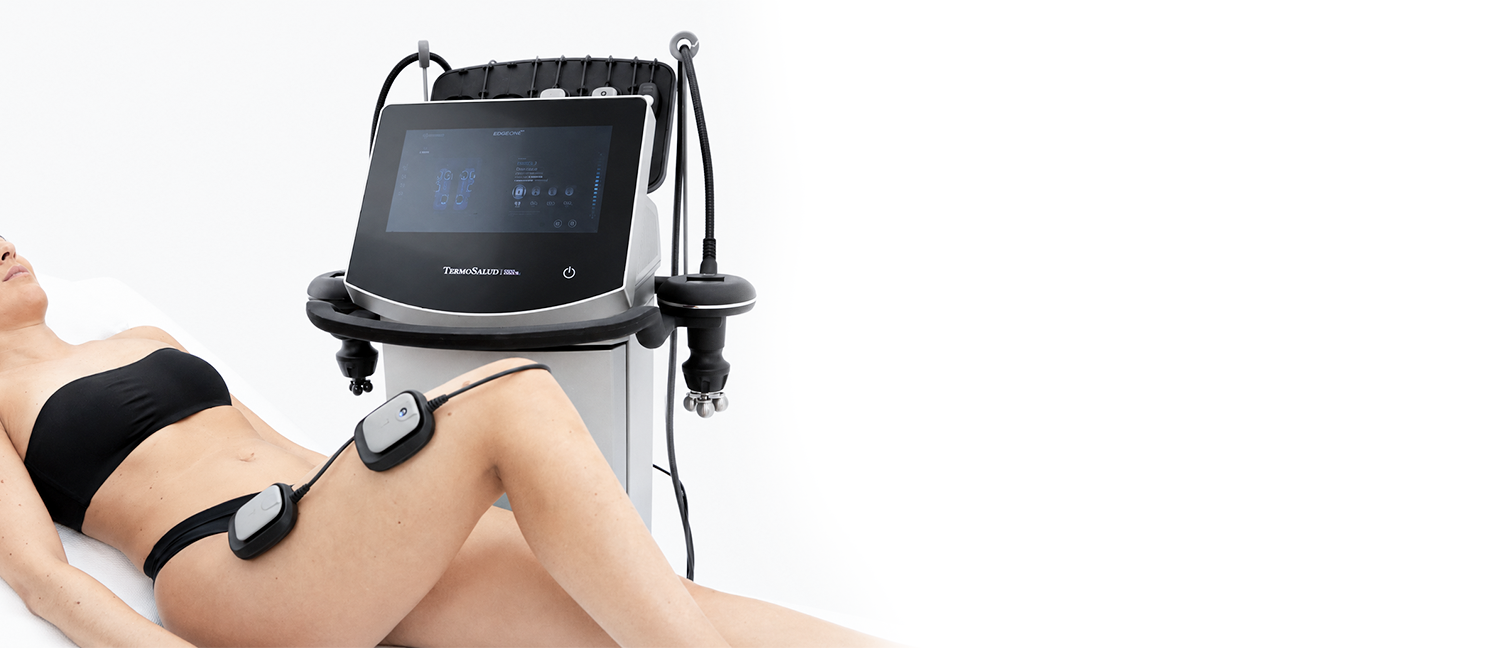
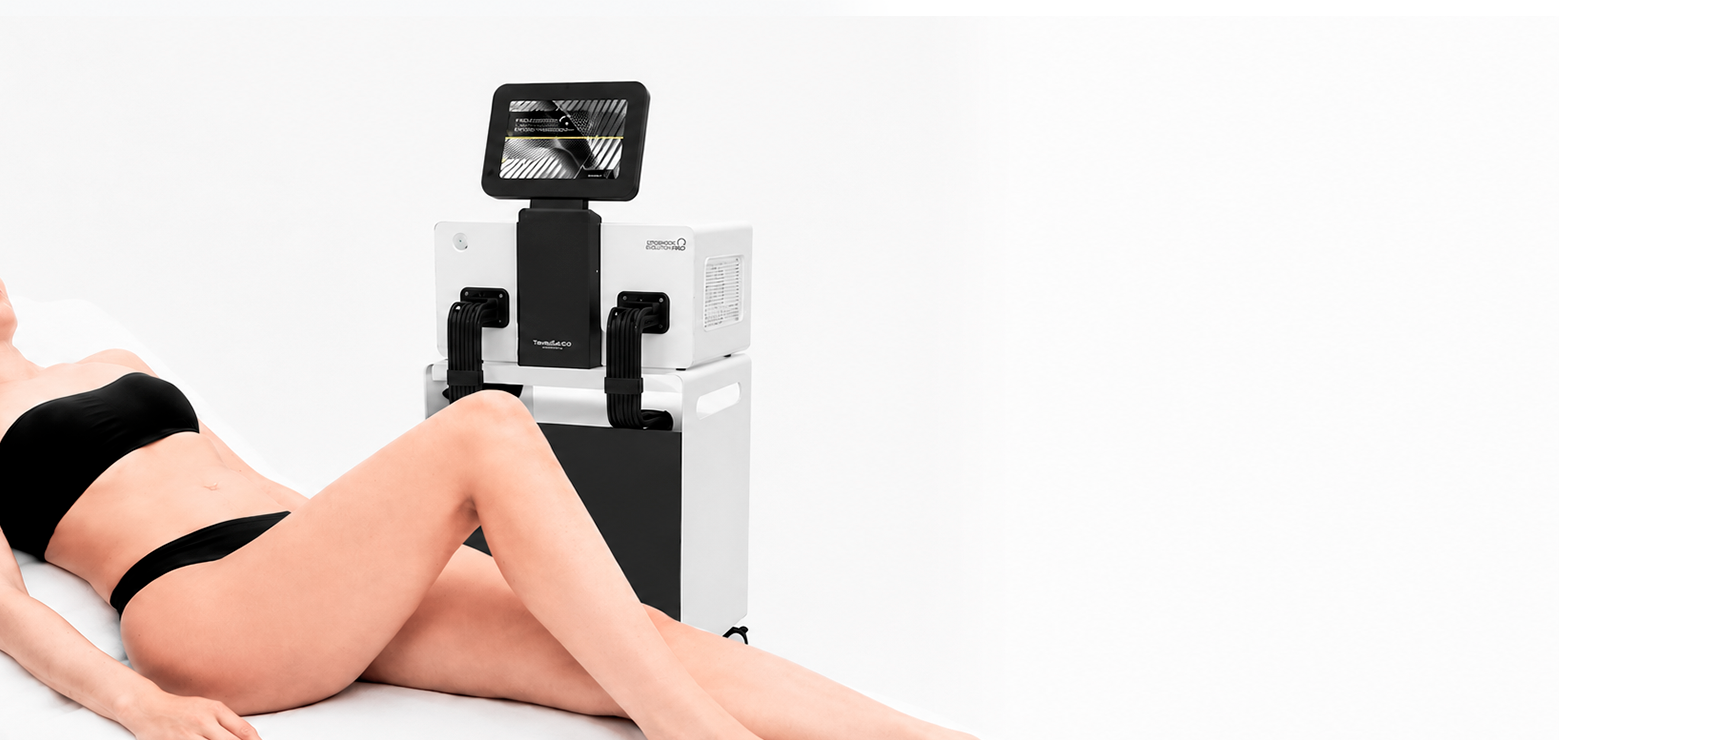
Screen 4: updated photo_form.png with user latest 1724x740 presentation photo and cache-busted asset URL

Changed region(s): [[0.0, 0.0309, 0.4974, 1.0], [0.5284, 0.9568, 0.5906, 1.0], [0.4974, 0.9259, 0.5284, 0.9568]]

diff --git a/index.html b/index.html
@@ -58,7 +58,7 @@ name="msapplication-TileImage" content="/wp-content/uploads/2026/03/favicon-opti
   <link rel="preconnect" href="https://fonts.googleapis.com">
   <link rel="preconnect" href="https://fonts.gstatic.com" crossorigin>
   <link href="https://fonts.googleapis.com/css2?family=Golos+Text:wght@400;500;600;700;800;900&family=Inter:wght@300;400;500;600;700;800;900&family=Manrope:wght@300;400;500;600;700;800&family=Montserrat:ital,wght@0,300;0,400;0,500;0,600;0,700;0,800;0,900;1,300;1,400&family=Onest:wght@300;400;500;600;700;800;900&family=Outfit:wght@300;400;500;600;700;800;900&family=Playfair+Display:ital,wght@0,400;0,600;0,700;0,900;1,400;1,600&family=Plus+Jakarta+Sans:wght@300;400;500;600;700;800&display=swap" rel="stylesheet">
-  <link rel="stylesheet" href="/src/css/custom.css?v=1787583307444">
+  <link rel="stylesheet" href="/src/css/custom.css?v=1787583682696">
   <style>
     .split-title, .split-title *, .split-panel .split-title, .split-panel h3, .split-content .split-title, .split-content h3 {
       color: #f1f5f9 !important;
@@ -546,7 +546,7 @@ class=center>
         <!-- Full Living Banner Stage Container (Uncropped Photo + Clean Form) -->
         <div class="fullwidth-living-banner">
           <img
-            src="/photo_form.png"
+            src="/photo_form.png?v=1787583676177"
             class="living-banner-bg-img"
             alt="Termosalud Test Drive Presentation"
           />

diff --git a/about-us/index.html b/about-us/index.html
@@ -27,7 +27,7 @@ name="msapplication-TileImage" content="/wp-content/uploads/2026/03/favicon-opti
   <link rel="preconnect" href="https://fonts.googleapis.com">
   <link rel="preconnect" href="https://fonts.gstatic.com" crossorigin>
   <link href="https://fonts.googleapis.com/css2?family=Golos+Text:wght@400;500;600;700;800;900&family=Inter:wght@300;400;500;600;700;800;900&family=Manrope:wght@300;400;500;600;700;800&family=Montserrat:ital,wght@0,300;0,400;0,500;0,600;0,700;0,800;0,900;1,300;1,400&family=Onest:wght@300;400;500;600;700;800;900&family=Outfit:wght@300;400;500;600;700;800;900&family=Playfair+Display:ital,wght@0,400;0,600;0,700;0,900;1,400;1,600&family=Plus+Jakarta+Sans:wght@300;400;500;600;700;800&display=swap" rel="stylesheet">
-  <link rel="stylesheet" href="/src/css/custom.css?v=1787583307452">
+  <link rel="stylesheet" href="/src/css/custom.css?v=1787583682705">
   <style>
     .split-title, .split-title *, .split-panel .split-title, .split-panel h3, .split-content .split-title, .split-content h3 {
       color: #f1f5f9 !important;

diff --git a/linfopress/index.html b/linfopress/index.html
@@ -29,7 +29,7 @@ name="msapplication-TileImage" content="/wp-content/uploads/2026/03/favicon-opti
   <link rel="preconnect" href="https://fonts.googleapis.com">
   <link rel="preconnect" href="https://fonts.gstatic.com" crossorigin>
   <link href="https://fonts.googleapis.com/css2?family=Golos+Text:wght@400;500;600;700;800;900&family=Inter:wght@300;400;500;600;700;800;900&family=Manrope:wght@300;400;500;600;700;800&family=Montserrat:ital,wght@0,300;0,400;0,500;0,600;0,700;0,800;0,900;1,300;1,400&family=Onest:wght@300;400;500;600;700;800;900&family=Outfit:wght@300;400;500;600;700;800;900&family=Playfair+Display:ital,wght@0,400;0,600;0,700;0,900;1,400;1,600&family=Plus+Jakarta+Sans:wght@300;400;500;600;700;800&display=swap" rel="stylesheet">
-  <link rel="stylesheet" href="/src/css/custom.css?v=1787583307460">
+  <link rel="stylesheet" href="/src/css/custom.css?v=1787583682715">
   <style>
     .split-title, .split-title *, .split-panel .split-title, .split-panel h3, .split-content .split-title, .split-content h3 {
       color: #f1f5f9 !important;

diff --git a/zionic/index.html b/zionic/index.html
@@ -29,7 +29,7 @@ name="msapplication-TileImage" content="/wp-content/uploads/2026/03/favicon-opti
   <link rel="preconnect" href="https://fonts.googleapis.com">
   <link rel="preconnect" href="https://fonts.gstatic.com" crossorigin>
   <link href="https://fonts.googleapis.com/css2?family=Golos+Text:wght@400;500;600;700;800;900&family=Inter:wght@300;400;500;600;700;800;900&family=Manrope:wght@300;400;500;600;700;800&family=Montserrat:ital,wght@0,300;0,400;0,500;0,600;0,700;0,800;0,900;1,300;1,400&family=Onest:wght@300;400;500;600;700;800;900&family=Outfit:wght@300;400;500;600;700;800;900&family=Playfair+Display:ital,wght@0,400;0,600;0,700;0,900;1,400;1,600&family=Plus+Jakarta+Sans:wght@300;400;500;600;700;800&display=swap" rel="stylesheet">
-  <link rel="stylesheet" href="/src/css/custom.css?v=1787583307456">
+  <link rel="stylesheet" href="/src/css/custom.css?v=1787583682709">
   <style>
     .split-title, .split-title *, .split-panel .split-title, .split-panel h3, .split-content .split-title, .split-content h3 {
       color: #f1f5f9 !important;
